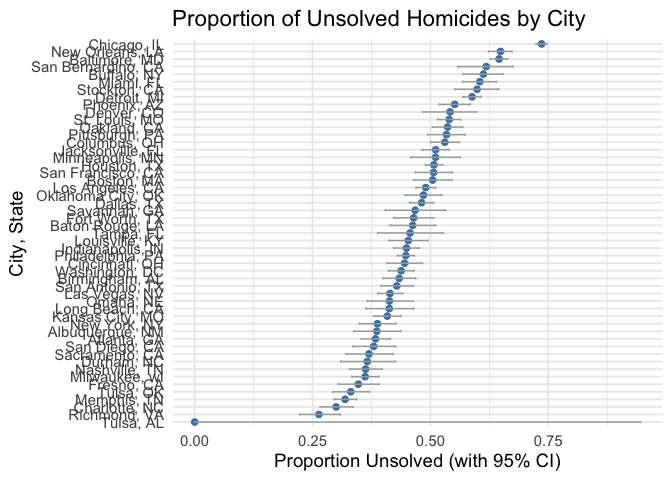
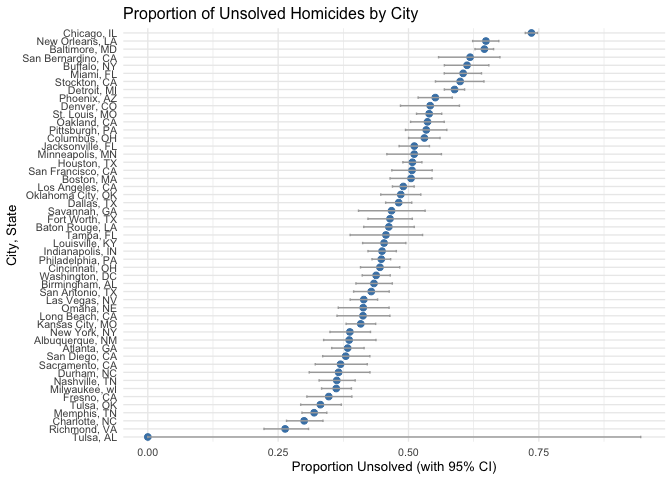
update

Changed region(s): [[0.0, 0.0, 1.0, 1.0]]

diff --git a/p8105_hw5_cc5424.md b/p8105_hw5_cc5424.md
@@ -353,7 +353,7 @@ title = "Proportion of Unsolved Homicides by City",
 x = "City, State",
 y = "Proportion Unsolved (with 95% CI)"
 ) +
-theme_minimal(base_size = 14)
+theme_minimal(base_size = 10)
 ```
 
 ![](p8105_hw5_cc5424_files/figure-gfm/unnamed-chunk-8-1.png)<!-- -->
